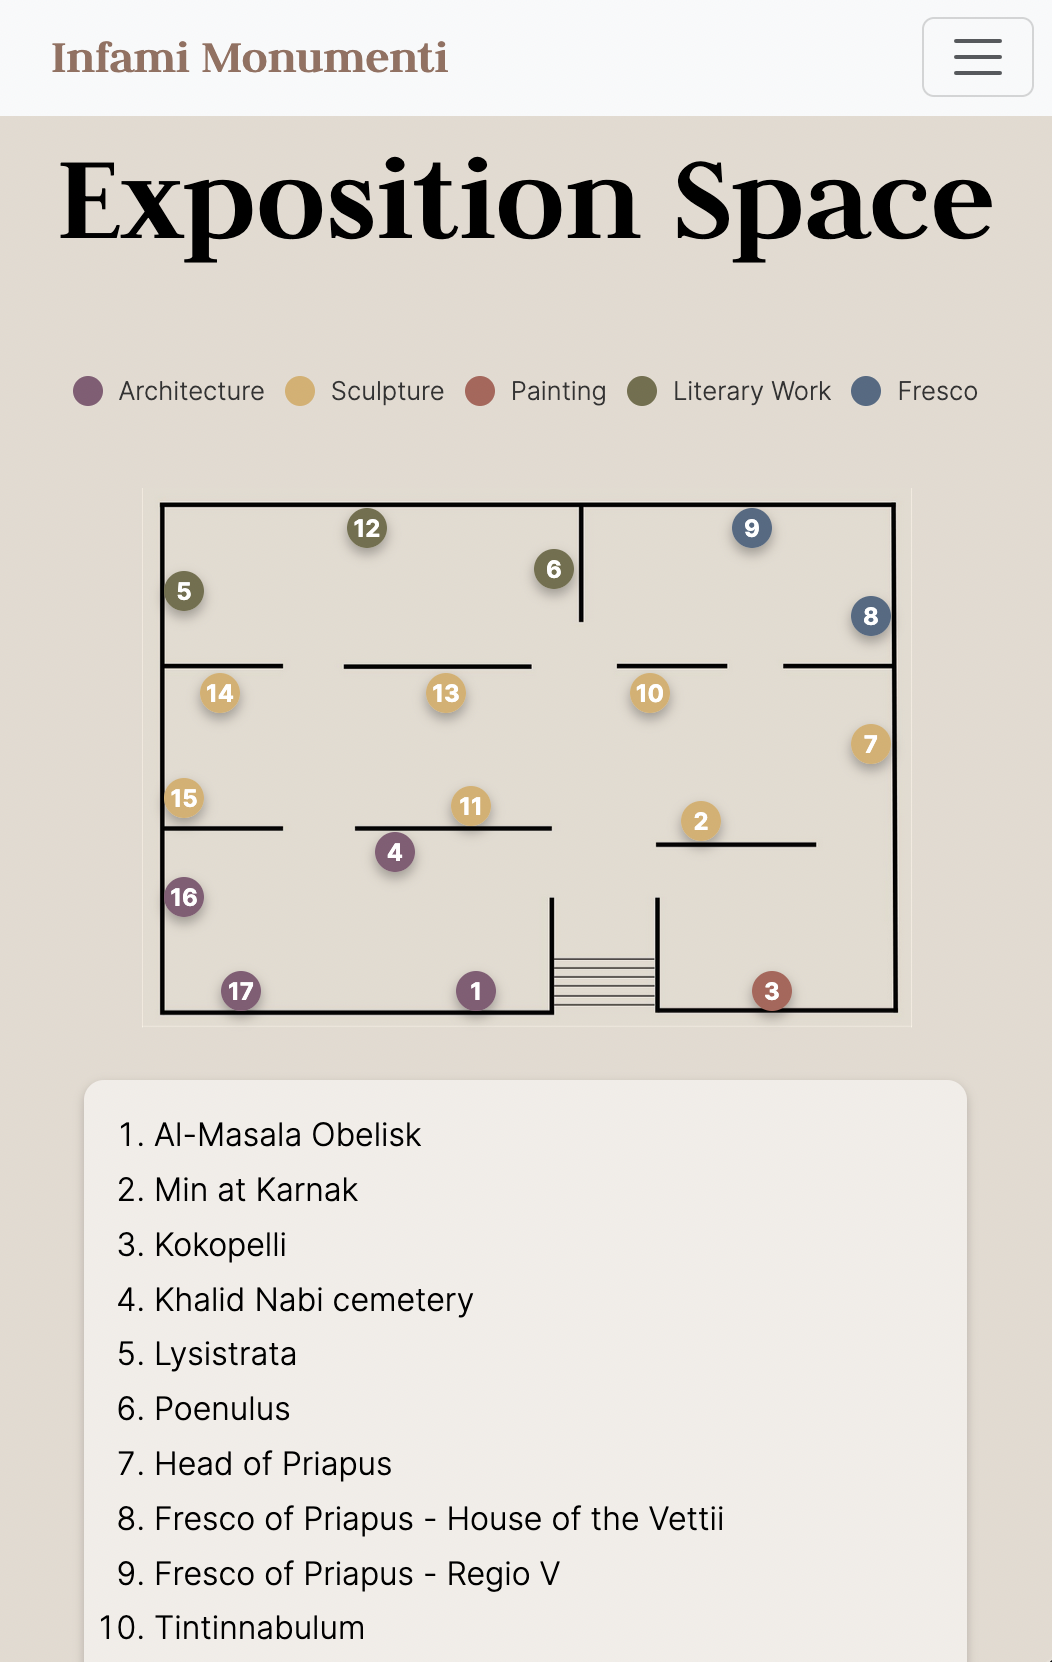
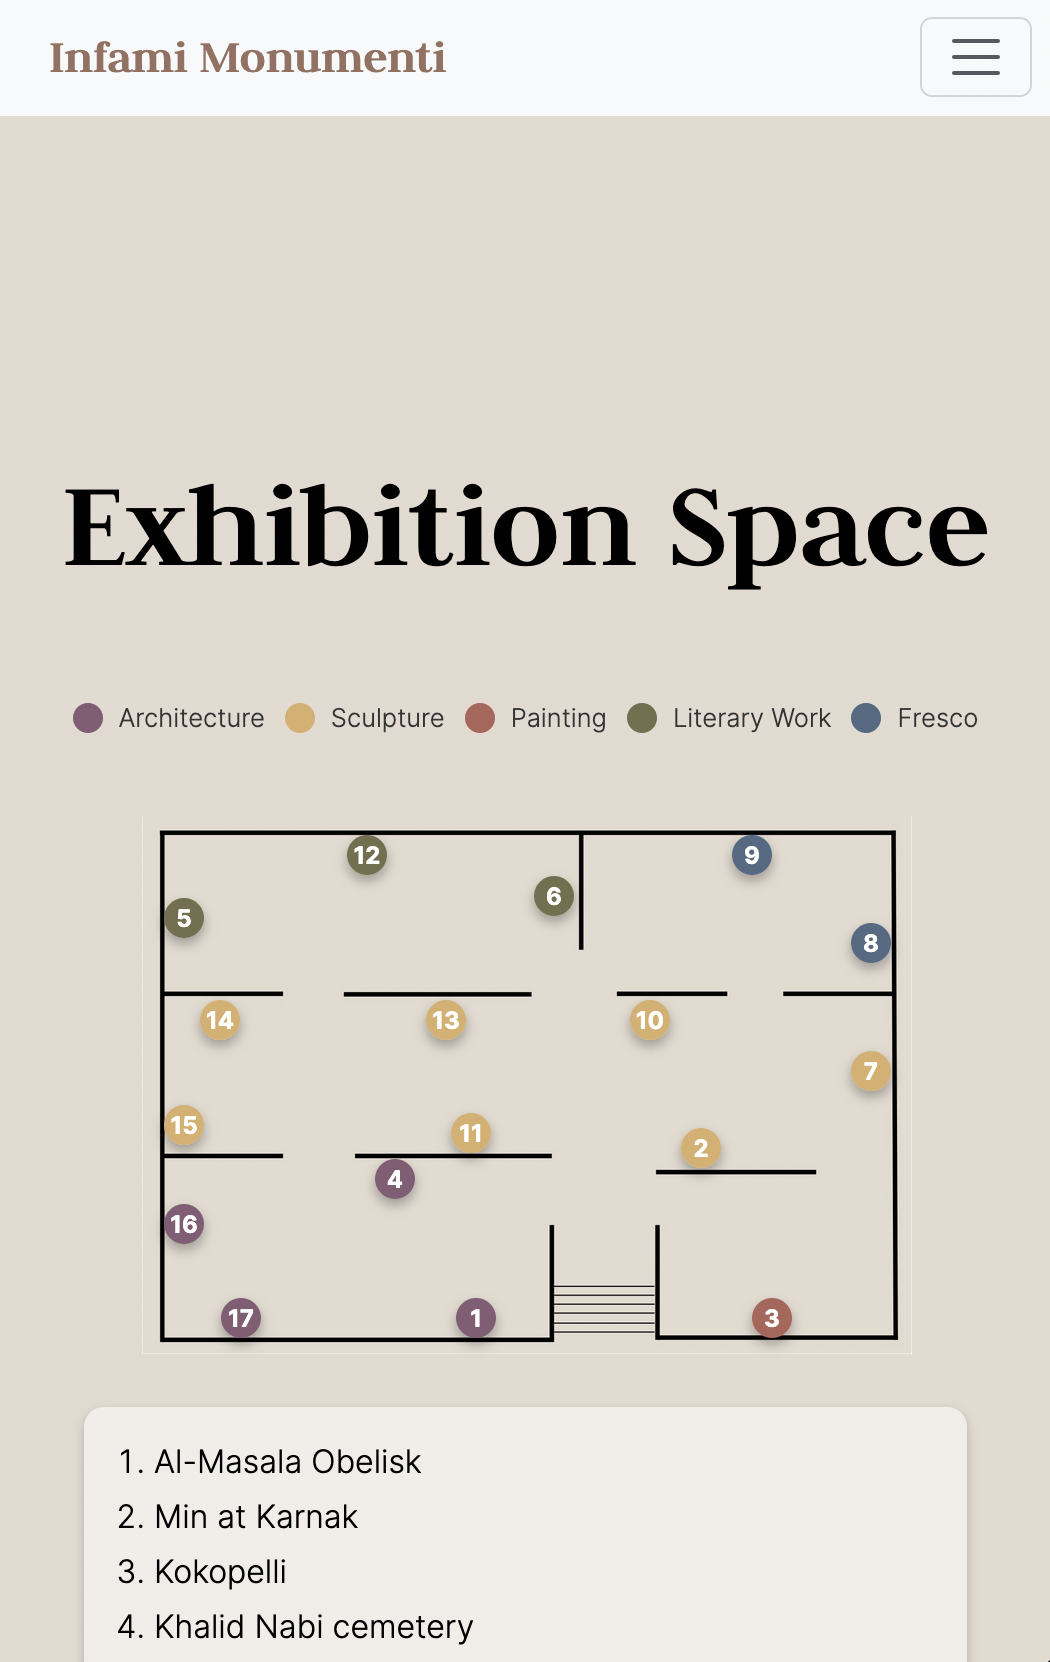
.

diff --git a/museum.css b/museum.css
@@ -14,8 +14,9 @@ main {
 
 .title{
     font-weight: 1000;
-    margin-top: 2.5em;
+    margin-top: 1.5em;
     font-family:'Judson';
+    font-size: 3.5rem;
     padding-top: 5px;
 }
 
